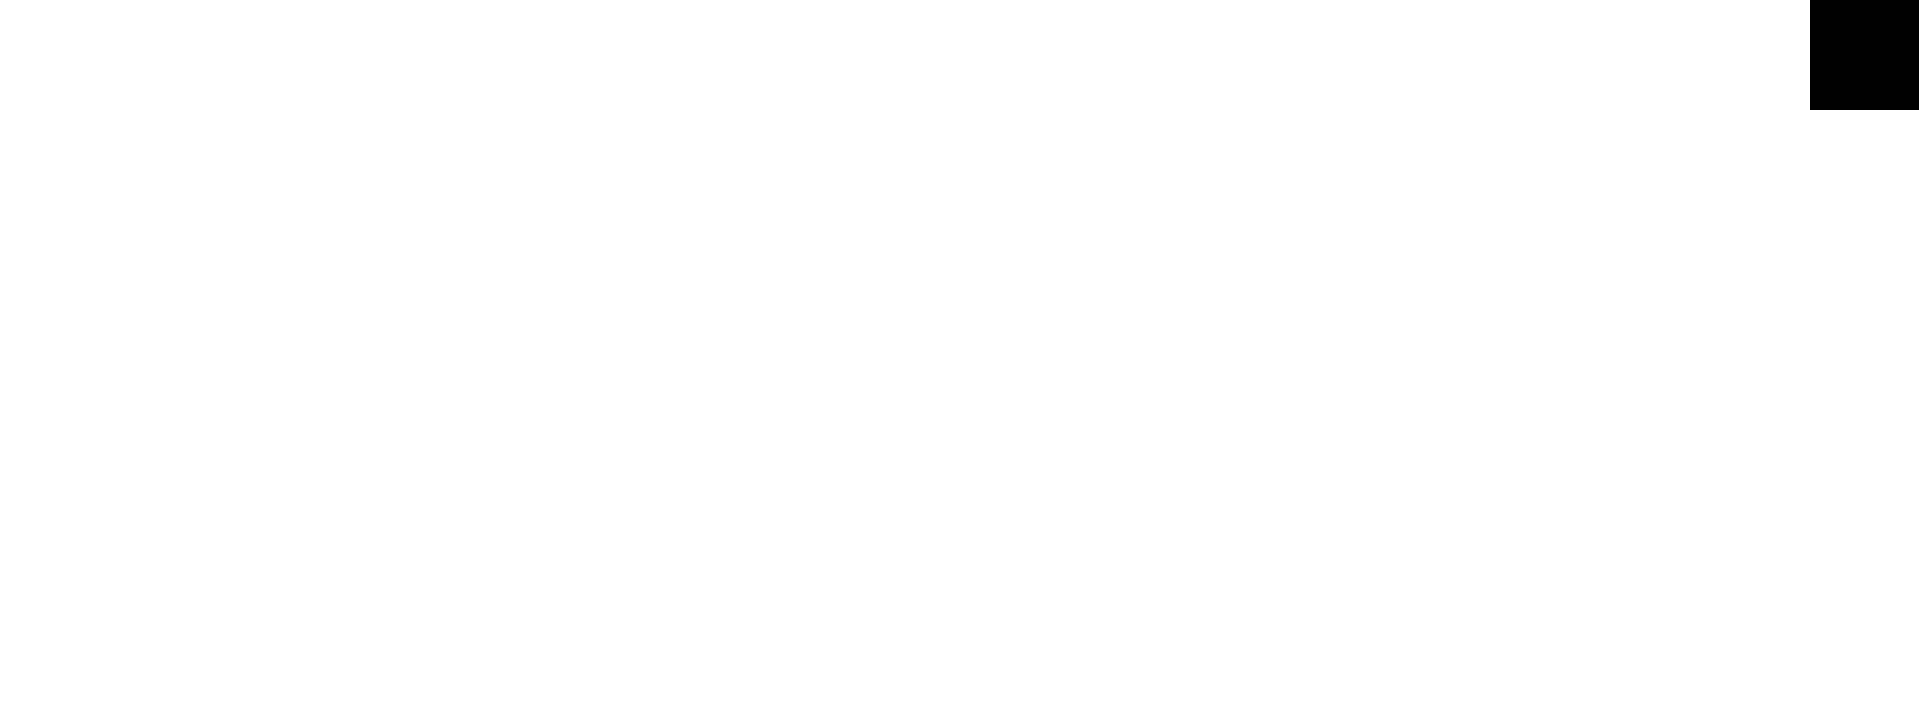
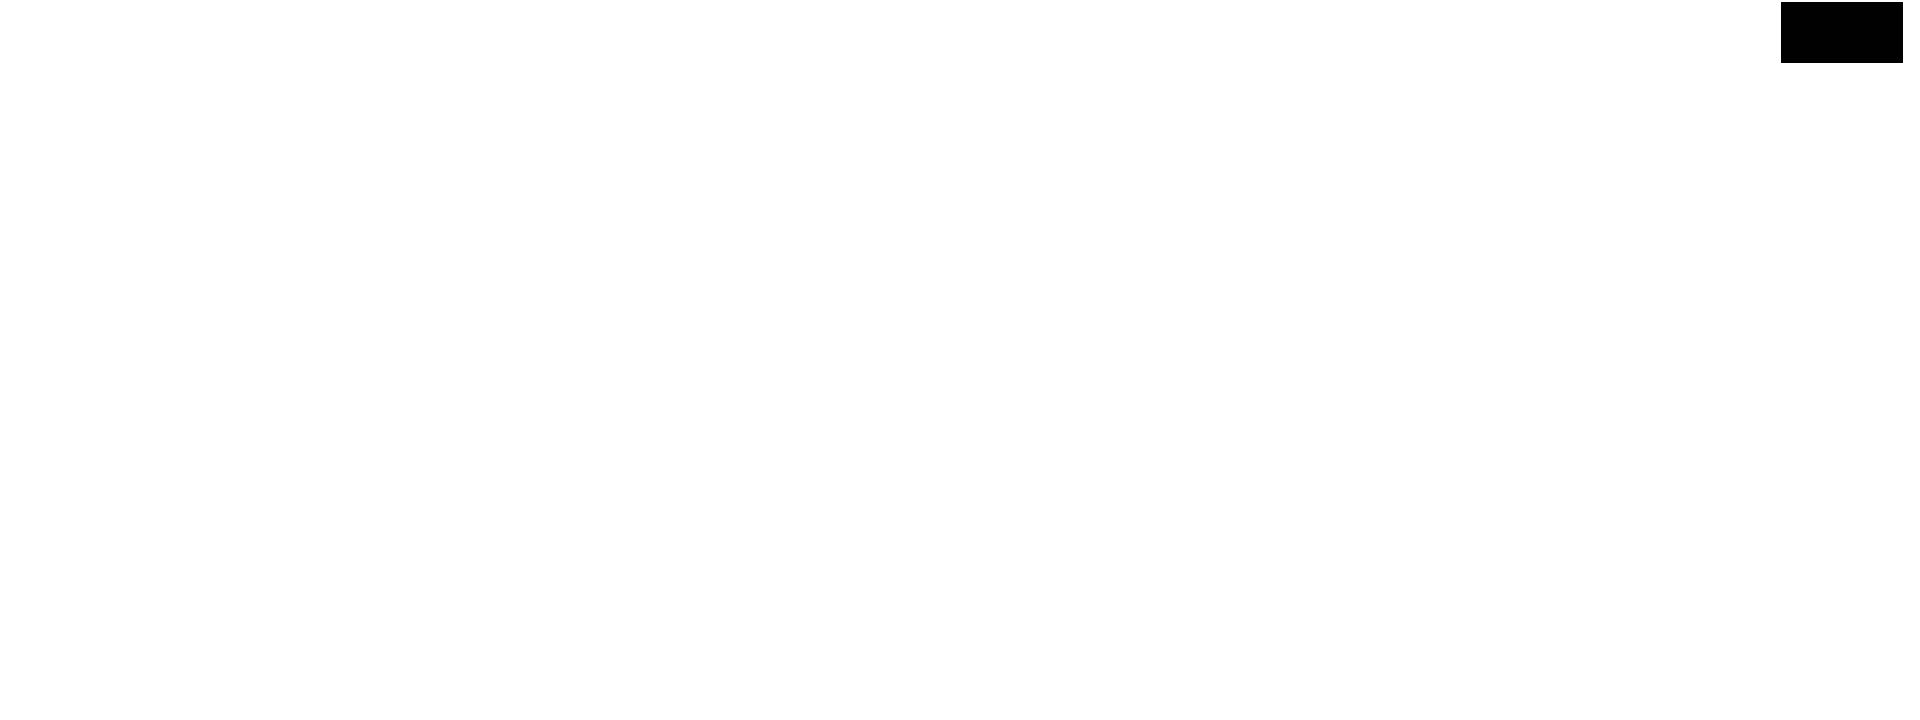
Add feature : changeAreaSize

Changed region(s): [[0.9062, 0.0, 1.0, 0.1528]]

diff --git a/homescreen/qml/main.qml b/homescreen/qml/main.qml
@@ -128,25 +128,20 @@ Window {
         }
     }
 
-
-
-
-
     Item {
         id: switchBtn
-        width: 110
-        height: 110
+        width: 61
+        height: 61
         anchors.right: parent.right
+        anchors.rightMargin: 17
         anchors.top: parent.top
+        anchors.topMargin: 2
         z: 1
         Image {
             id: image
             width: 55
             height: 55
-            anchors.right: parent.right
-            anchors.rightMargin: 20
-            anchors.top: parent.top
-            anchors.topMargin: 5
+            anchors.centerIn: parent
             source: './images/normal.png'
         }
 
@@ -162,16 +157,68 @@ Window {
             }
         }
     }
+
+    Item {
+        id: splitSwitchBtn
+        width: 61
+        height: 61
+        anchors.right: switchBtn.left
+        anchors.top: parent.top
+        anchors.topMargin: 2
+        z: 1
+        property bool enableSplitSwitchBtn: false
+        Image {
+            id: splitSwitchImage
+            width: 55
+            height: 55
+            anchors.centerIn: parent
+            source: './images/split_switch_disable.png'
+        }
+
+        MouseArea {
+            property bool changed : false
+            anchors.fill: parent
+            onClicked: {
+                if (splitSwitchBtn.enableSplitSwitchBtn) {
+                    if(changed) {
+                        switchSplitArea(0)
+                        changed = false
+                    }
+                    else {
+                        switchSplitArea(1)
+                        changed = true
+                    }
+                }
+            }
+        }
+    }
+
+
     function turnToFullscreen() {
         image.source = './images/fullscreen.png'
         container.state = 'fullscreen'
         container.opacity = 0.0
         touchArea.switchArea(1)
     }
+
     function turnToNormal() {
         image.source = './images/normal.png'
         container.state = 'normal'
         container.opacity = 1.0
         touchArea.switchArea(0)
+    }
+
+    function enableSplitSwitchBtn() {
+        splitSwitchImage.source = './images/split_switch.png'
+        splitSwitchBtn.enableSplitSwitchBtn = true
+    }
+
+    function disableSplitSwitchBtn() {
+        splitSwitchImage.source = './images/split_switch_disable.png'
+        splitSwitchBtn.enableSplitSwitchBtn = false;
+    }
+
+    function switchSplitArea(val) {
+        homescreenHandler.changeLayout(val);
     }
 }

diff --git a/homescreen/src/main.cpp b/homescreen/src/main.cpp
@@ -24,7 +24,6 @@
 #include <QQuickWindow>
 #include <QThread>
 
-#include <qlibwindowmanager.h>
 #include <weather.h>
 #include <bluetooth.h>
 #include "applicationlauncher.h"
@@ -57,6 +56,7 @@ void noOutput(QtMsgType, const QMessageLogContext &, const QString &)
 int main(int argc, char *argv[])
 {
     QGuiApplication a(argc, argv);
+    const char* graphic_role = "homescreen";
 
     // use launch process
     QScopedPointer<org::AGL::afm::user, Cleanup> afm_user_daemon_proxy(new org::AGL::afm::user("org.AGL.afm.user",
@@ -94,16 +94,7 @@ int main(int argc, char *argv[])
 
     ApplicationLauncher *launcher = new ApplicationLauncher();
     HomescreenHandler* homescreenHandler = new HomescreenHandler();
-    homescreenHandler->init(port, token.toStdString().c_str());
-
-    QLibWindowmanager* layoutHandler = new QLibWindowmanager();
-    if(layoutHandler->init(port,token) != 0){
-        exit(EXIT_FAILURE);
-    }
-
-    if (layoutHandler->requestSurface(QString("homescreen")) != 0) {
-        exit(EXIT_FAILURE);
-    }
+    homescreenHandler->init(graphic_role, port, token.toStdString().c_str());
 
     QUrl bindingAddress;
     bindingAddress.setScheme(QStringLiteral("ws"));
@@ -119,7 +110,6 @@ int main(int argc, char *argv[])
 
     // mail.qml loading
     QQmlApplicationEngine engine;
-//    engine.rootContext()->setContextProperty("layoutHandler", layoutHandler);
     engine.rootContext()->setContextProperty("homescreenHandler", homescreenHandler);
     engine.rootContext()->setContextProperty("touchArea", touchArea);
     engine.rootContext()->setContextProperty("launcher", launcher);
@@ -129,27 +119,32 @@ int main(int argc, char *argv[])
 
     QObject *root = engine.rootObjects().first();
 
-    layoutHandler->set_event_handler(QLibWindowmanager::Event_SyncDraw, [layoutHandler](json_object *object) {
-        layoutHandler->endDraw(QString("homescreen"));
-    });
-
-    layoutHandler->set_event_handler(QLibWindowmanager::Event_ScreenUpdated, [layoutHandler, launcher, root](json_object *object) {
-        json_object *jarray = json_object_object_get(object, "ids");
-        int arrLen = json_object_array_length(jarray);
+    WMHandler wmh;
+    wmh.on_screen_updated = [launcher, root](std::vector<std::string> list) {
+        for(const auto& i : list) {
+            HMI_DEBUG("HomeScreen", "ids=%s", i.c_str());
+        }
+        int arrLen = list.size();
+        QString label = QString("");
         for( int idx = 0; idx < arrLen; idx++)
         {
-            QString label = QString(json_object_get_string(	json_object_array_get_idx(jarray, idx) ));
+            label = list[idx].c_str();
             HMI_DEBUG("HomeScreen","Event_ScreenUpdated application: %s.", label.toStdString().c_str());
             QMetaObject::invokeMethod(launcher, "setCurrent", Qt::QueuedConnection, Q_ARG(QString, label));
             if(label == "launcher") {
                 QMetaObject::invokeMethod(root, "turnToNormal");
-//                homescreenHandler->emitTurnToFullscreen(false);
             } else {
                 QMetaObject::invokeMethod(root, "turnToFullscreen");
-//                homescreenHandler->emitTurnToFullscreen(true);
+            }
+            if((arrLen == 1) && (QString("restriction") != label)) {
+                QMetaObject::invokeMethod(root, "disableSplitSwitchBtn");
+            } else {
+                QMetaObject::invokeMethod(root, "enableSplitSwitchBtn");
             }
         }
-    });
+    };
+    homescreenHandler->setWMHandler(wmh);
+    homescreenHandler->attach(&engine);
 
     QQuickWindow *window = qobject_cast<QQuickWindow *>(root);
 
@@ -163,8 +158,6 @@ int main(int argc, char *argv[])
     QList<QObject *> sobjs = engine.rootObjects();
     StatusBarModel *statusBar = sobjs.first()->findChild<StatusBarModel *>("statusBar");
     statusBar->init(bindingAddress, engine.rootContext());
-
-    QObject::connect(window, SIGNAL(frameSwapped()), layoutHandler, SLOT(slotActivateSurface()));
 
     return a.exec();
 }

diff --git a/homescreen/src/homescreenhandler.cpp b/homescreen/src/homescreenhandler.cpp
@@ -16,13 +16,15 @@
 
 #include "homescreenhandler.h"
 #include <functional>
+#include <QQmlApplicationEngine>
+#include <QtQuick/QQuickWindow>
 #include "hmi-debug.h"
 
 void* HomescreenHandler::myThis = 0;
 
 HomescreenHandler::HomescreenHandler(QObject *parent) :
     QObject(parent),
-    mp_hs(NULL)
+    mp_hs(NULL), mp_wm(NULL), m_role()
 {
 
 }
@@ -32,10 +34,29 @@ HomescreenHandler::~HomescreenHandler()
     if (mp_hs != NULL) {
         delete mp_hs;
     }
+    if (mp_wm != NULL) {
+        delete mp_wm;
+    }
 }
 
-void HomescreenHandler::init(int port, const char *token)
+void HomescreenHandler::init(const char* role, int port, const char *token)
 {
+    this->m_role = role;
+
+    // LibWindowManager initialize
+    mp_wm = new LibWindowmanager();
+    if(mp_wm->init(port,token) != 0){
+        exit(EXIT_FAILURE);
+    }
+
+    int surface = mp_wm->requestSurface(m_role.c_str());
+    if (surface < 0) {
+        exit(EXIT_FAILURE);
+    }
+    std::string ivi_id = std::to_string(surface);
+    setenv("QT_IVI_SURFACE_ID", ivi_id.c_str(), true);
+
+    // LibHomeScreen initialize
     mp_hs = new LibHomeScreen();
     mp_hs->init(port, token);
 
@@ -48,6 +69,52 @@ void HomescreenHandler::init(int port, const char *token)
             json_object_object_get(object, "display_message"));
         HMI_DEBUG("HomeScreen","set_event_handler Event_OnScreenMessage display_message = %s", display_message);
     });
+}
+
+void HomescreenHandler::setWMHandler(WMHandler& h) {
+    h.on_sync_draw = [&](const char* role, const char* area, Rect r) {
+        this->mp_wm->endDraw(this->m_role.c_str());
+    };
+    mp_wm->setEventHandler(h);
+}
+
+void HomescreenHandler::disconnect_frame_swapped(void)
+{
+    qDebug("Let's start homescreen");
+    QObject::disconnect(this->loading);
+    mp_wm->activateWindow(m_role.c_str(), "fullscreen");
+}
+
+void HomescreenHandler::attach(QQmlApplicationEngine* engine)
+{
+    QQuickWindow *window = qobject_cast<QQuickWindow *>(engine->rootObjects().first());
+    this->loading = QObject::connect(window, SIGNAL(frameSwapped()), this, SLOT(disconnect_frame_swapped()));
+}
+
+void HomescreenHandler::changeLayout(int pattern)
+{
+    HMI_NOTICE("HomeScreen", "Pressed %d, %s", pattern,
+        (pattern == P_LEFT_METER_RIGHT_MAP) ? "left:meter, right:map": "left:map, right:meter");
+    ChangeAreaReq req;
+    std::unordered_map<std::string, Rect> map_list;
+    switch(pattern) {
+        case P_LEFT_METER_RIGHT_MAP:
+            map_list["split.main"] = Rect(0, 0, 1280, 720);
+            map_list["split.sub"] = Rect(1280, 0, 640, 720);
+            break;
+        case P_LEFT_MAP_RIGHT_METER:
+            map_list["split.main"] = Rect(640, 0, 1280, 720);
+            map_list["split.sub"] = Rect(0, 0, 640, 720);
+            break;
+        default:
+            break;
+    }
+    if(map_list.size() != 0)
+    {
+        req.setAreaReq(map_list);
+        HMI_NOTICE("Homescreen", "Change layout");
+        mp_wm->changeAreaSize(req);
+    }
 }
 
 void HomescreenHandler::tapShortcut(QString application_name)

diff --git a/homescreen/src/homescreenhandler.h b/homescreen/src/homescreenhandler.h
@@ -19,20 +19,31 @@
 
 #include <QObject>
 #include <libhomescreen.hpp>
+#include <libwindowmanager.h>
 #include <string>
 
 using namespace std;
+
+class QQmlApplicationEngine;
 
 class HomescreenHandler : public QObject
 {
     Q_OBJECT
 public:
+    enum CHANGE_LAYOUT_PATTERN {
+        P_LEFT_METER_RIGHT_MAP = 0,
+        P_LEFT_MAP_RIGHT_METER
+    };
+    Q_ENUMS(CHANGE_LAYOUT_PATTERN)
     explicit HomescreenHandler(QObject *parent = 0);
     ~HomescreenHandler();
 
-    void init(int port, const char* token);
+    void init(const char* role, int port, const char* token);
+    void attach(QQmlApplicationEngine* engine);
+    void setWMHandler(WMHandler &handler);
 
     Q_INVOKABLE void tapShortcut(QString application_name);
+    Q_INVOKABLE void changeLayout(int pattern);
 
     void onRep(struct json_object* reply_contents);
     void onEv(const string& event, struct json_object* event_contents);
@@ -45,8 +56,14 @@ signals:
     void notification(QString id, QString icon, QString text);
     void information(QString text);
 
+private Q_SLOTS:
+    void disconnect_frame_swapped(void);
+
 private:
     LibHomeScreen *mp_hs;
+    LibWindowmanager *mp_wm;
+    std::string m_role;
+    QMetaObject::Connection loading;
 };
 
 #endif // HOMESCREENHANDLER_H
